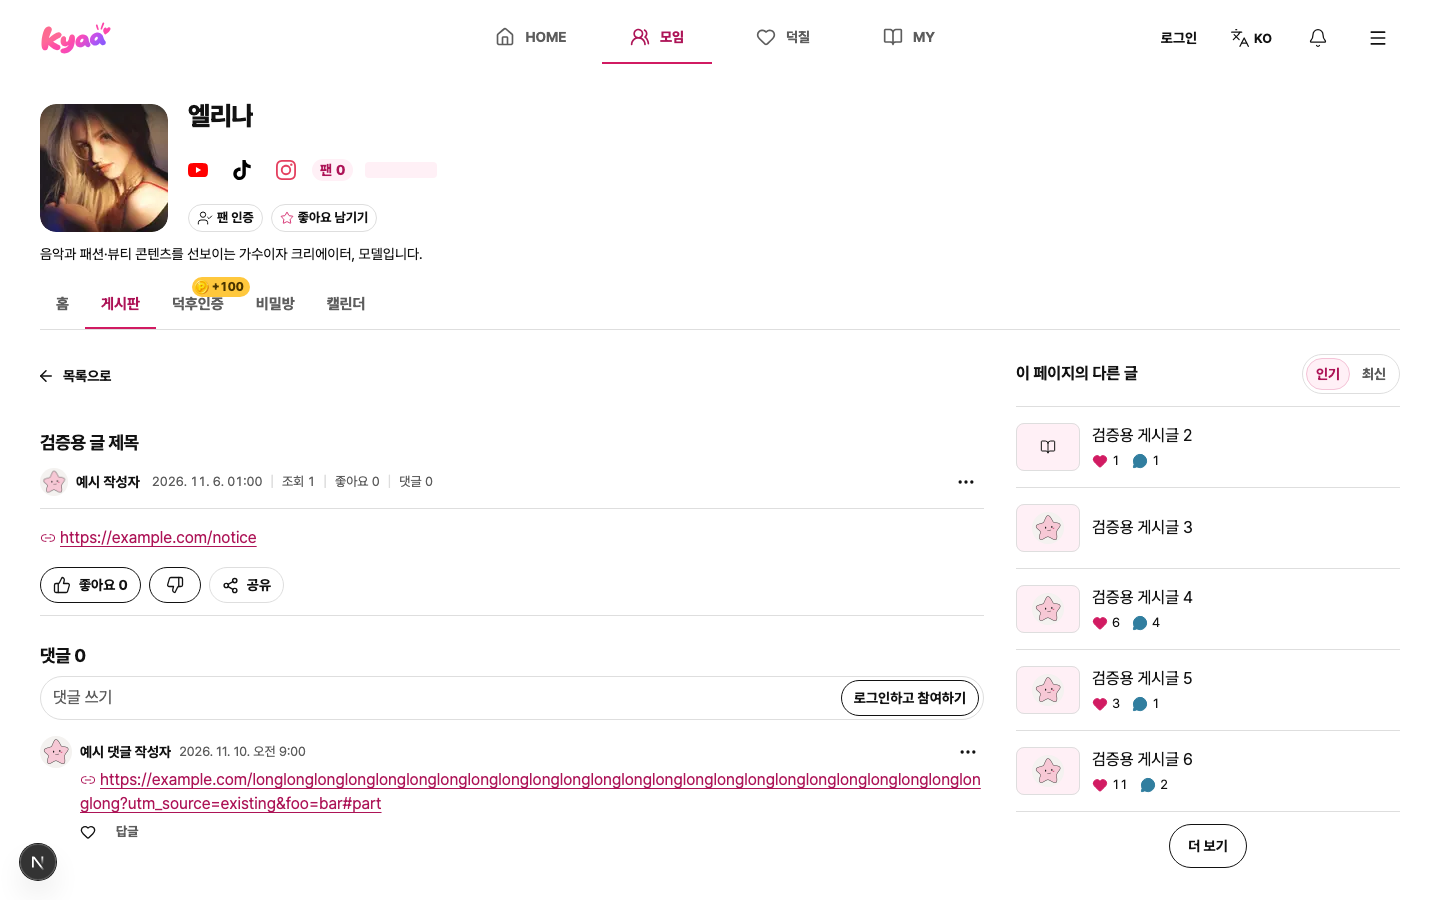
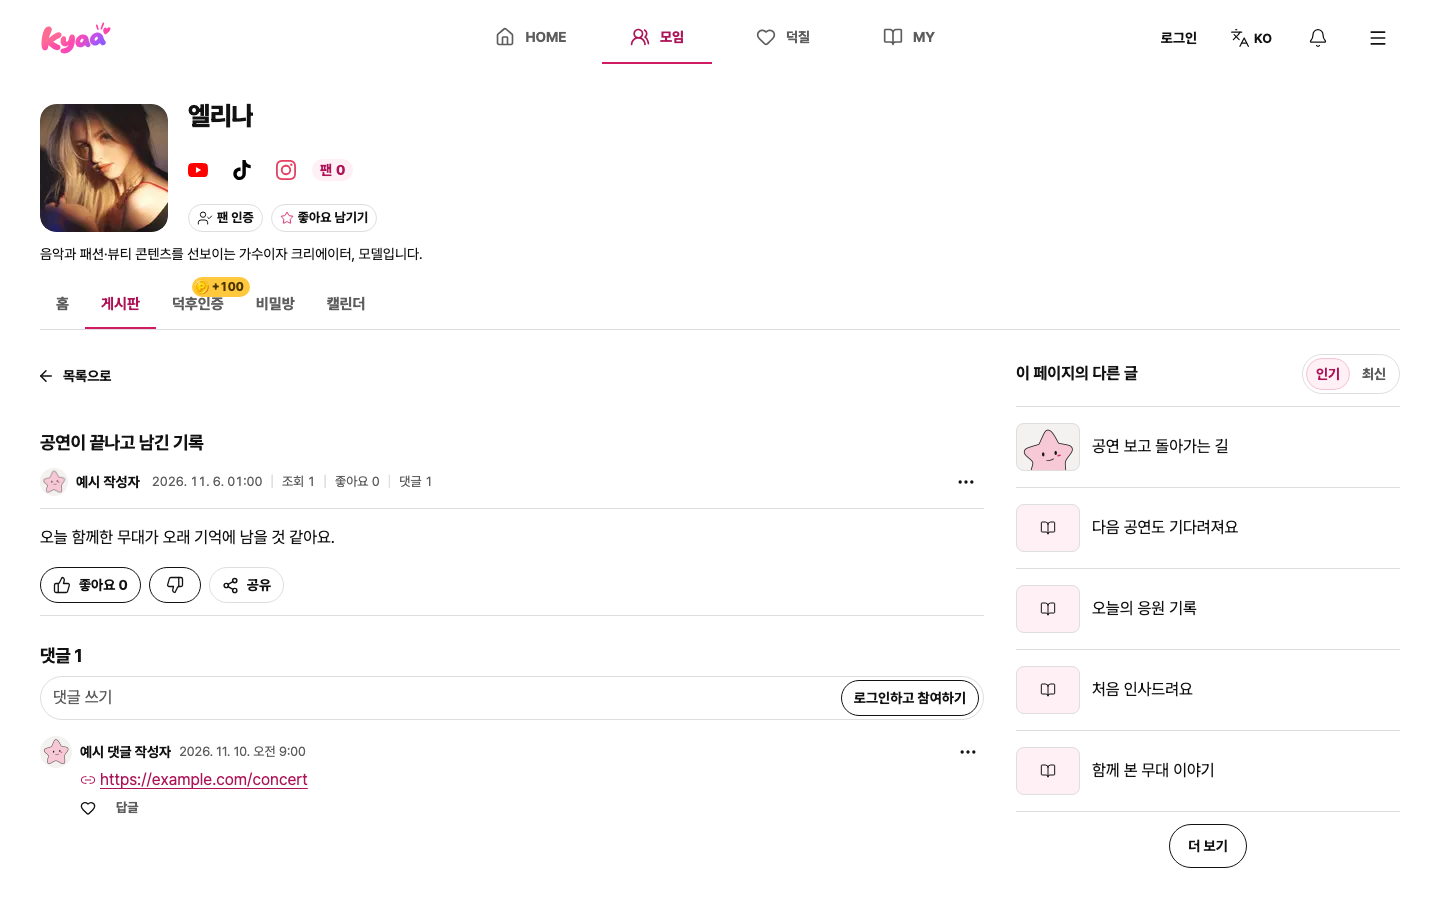
Keep post thumbnail fallback visible while images load

diff --git a/apps/web/features/fan-posts/ui/post-detail-more.tsx b/apps/web/features/fan-posts/ui/post-detail-more.tsx
@@ -50,19 +50,25 @@ export function moreTitle(item: Pick<Item, "body">) {
   const [title, article] = postSlotTexts(item.body);
   return (title || article || item.body).split("\n")[0].trim();
 }
-/** 공개 글의 첫 사진만 바로 읽는다. 사진을 쓸 수 없으면 프로필 사진과 글 아이콘 순으로 대체한다. */
+/** 공개 글의 첫 사진만 바로 읽는다. 사진이 표시될 때까지 공통 글 아이콘으로 대체한다. */
 const thumbnailOf = (item: Item) => item.visibility === "public" && item.assets?.[0] ? `/api/content-assets/${item.assets[0].id}?size=thumbnail` : null;
 
+function MoreThumbnail({ src }: { src: string | null }) {
+  const [loaded, setLoaded] = useState(false);
+  return <span className={styles.thumb}>
+    {loaded ? null : <FanIcon icon={BookOpen} size={16} />}
+    {src && <img src={src} alt="" width={64} height={48} loading="lazy" decoding="async"
+      onLoad={() => setLoaded(true)} onError={() => setLoaded(false)} data-loaded={loaded} />}
+  </span>;
+}
+
 function MoreRow({ item, slug, locale, tab }: { item: Item; slug: string; locale: AppLocale; tab: Tab }) {
-  const [broken, setBroken] = useState(false), thumbnail = thumbnailOf(item), copy = contentCopy(locale);
-  const [avatarBroken, setAvatarBroken] = useState(false);
+  const thumbnail = thumbnailOf(item);
+  const copy = contentCopy(locale);
   const returnTo = boardHref(slug, locale);
   const href = `/c/${slug}/community/${item.id}?locale=${locale}&returnTo=${encodeURIComponent(returnTo)}${tab === "latest" ? "&more=latest" : ""}`;
   return <li data-row=""><Link className={styles.row} href={href as Route} data-post-more-row="">
-    <span className={styles.thumb}>{thumbnail && !broken
-      ? <img src={thumbnail} alt="" width={64} height={48} loading="lazy" decoding="async" onError={() => setBroken(true)} />
-      : !avatarBroken && item.author.avatarUrl ? <img className={styles.avatar} data-artist-avatar={item.artist || undefined} src={item.author.avatarUrl} alt="" width={32} height={32} loading="lazy" decoding="async" onError={() => setAvatarBroken(true)} />
-      : <FanIcon icon={BookOpen} size={16} />}</span>
+    <MoreThumbnail key={thumbnail} src={thumbnail} />
     <span className={styles.text}>
       <FanText role="row-title" className={styles.title}>{moreTitle(item)}</FanText>
       {/* 0은 그리지 않는다. 둘 다 0이면 숫자 줄이 없다(게시판 목록의 댓글 수와 같은 규칙). */}

diff --git a/apps/web/features/fan-posts/ui/post-detail-more.test.tsx b/apps/web/features/fan-posts/ui/post-detail-more.test.tsx
@@ -82,15 +82,18 @@ it("offers a retry when the list cannot be read, and no banner on a brand page",
   expect(screen.queryByTestId("banner")).toBeNull();
 });
 
-it("shows a public post's first photo and the writer's picture otherwise, ringed for the page's artist", () => {
+it("shows a book icon until the public photo loads and for posts without a readable photo", () => {
   state.answer = () => ({ status: "ready", data: { items: [post("photo", { assets: [{ id: "bba239f6-6c6b-4a36-87bf-b325dfe5d4ca", width: 640, height: 480 }] }), post("members", { visibility: "members", artist: true, assets: [{ id: "bba239f6-6c6b-4a36-87bf-b325dfe5d4cb", width: 640, height: 480 }] })] } });
   const { container } = render(<PostDetailMore slug="elina" postId="current" locale="ko" />);
   const images = [...container.querySelectorAll("img")];
-  expect(images.map(image => image.getAttribute("src"))).toEqual(["/api/content-assets/bba239f6-6c6b-4a36-87bf-b325dfe5d4ca?size=thumbnail", "/images/avatars/star-pink.webp"]);
-  expect(images.map(image => image.hasAttribute("data-artist-avatar"))).toEqual([false, true]);
-  fireEvent.error(images[1]);
-  expect(images[1].isConnected).toBe(false);
-  expect(screen.getAllByRole("link")[1].querySelector(".lucide-book-open")).toBeTruthy();
+  expect(images.map(image => image.getAttribute("src"))).toEqual(["/api/content-assets/bba239f6-6c6b-4a36-87bf-b325dfe5d4ca?size=thumbnail"]);
+  const [photo, members] = screen.getAllByRole("link");
+  expect(members.querySelector(".lucide-book-open")).toBeTruthy();
+  expect(photo.querySelector(".lucide-book-open")).toBeTruthy();
+  fireEvent.load(images[0]);
+  expect(photo.querySelector(".lucide-book-open")).toBeNull();
+  fireEvent.error(images[0]);
+  expect(photo.querySelector(".lucide-book-open")).toBeTruthy();
 });
 
 it("uses the board post schema for ranking and cursor pages", () => {

diff --git a/apps/web/features/fan-posts/ui/post-detail-more.module.css b/apps/web/features/fan-posts/ui/post-detail-more.module.css
@@ -13,10 +13,10 @@
 .row:focus-visible { outline: 3px solid var(--color-focus); outline-offset: -3px; }
 @media (hover: hover) and (pointer: fine) { .row:hover { background: var(--color-accent-soft); } }
 .row:active { background: var(--color-accent-soft); }
-.thumb { display: flex; align-items: center; justify-content: center; width: var(--space-16); aspect-ratio: 4 / 3; overflow: hidden; border-radius: var(--radius-small); outline: 1px solid var(--color-line); outline-offset: -1px; background: var(--color-accent-soft); }
+.thumb { display: grid; place-items: center; width: var(--space-16); aspect-ratio: 4 / 3; overflow: hidden; border-radius: var(--radius-small); outline: 1px solid var(--color-line); outline-offset: -1px; background: var(--color-accent-soft); }
+.thumb > * { grid-area: 1 / 1; }
 .thumb > img { display: block; width: 100%; height: 100%; object-fit: cover; }
-/* 사진이 없는 글은 글쓴이 프로필 사진을 칸 가운데에 둥글게 둔다. */
-.thumb > img.avatar { flex: none; width: var(--space-8); height: var(--space-8); border-radius: 50%; }
+.thumb > img[data-loaded="false"] { visibility: hidden; }
 .text { display: flex; flex-direction: column; gap: var(--space-1); min-width: 0; }
 .title { overflow: hidden; display: -webkit-box; -webkit-box-orient: vertical; -webkit-line-clamp: 2; overflow-wrap: anywhere; }
 .meta { display: flex; align-items: center; gap: var(--space-3); font-variant-numeric: tabular-nums; }

diff --git a/DESIGN.md b/DESIGN.md
@@ -714,7 +714,7 @@ node apps/web/scripts/measure-r3.mjs --base http://127.0.0.1:3001 --out <dir> [-
 | R11 | 목록 행 | 이름과 값 사이 빈 간격이 행 폭의 40%를 넘지 않는다(≥1024) | R12 측정 |
 | R12 | 측정 | `BASE_URL=https://dev.kyaa.io node apps/web/scripts/measure-responsive.mjs --routes /,/rankings` — 390·1024·1440에서 가로 넘침(scrollWidth>clientWidth)·줄 길이 실패·행 간격·여백 차를 재고 JSON과 요약을 낸다. 공개 경로는 로그인 없이 돈다. 판정 함수는 `responsive-metrics.mjs`(단위 시험 `responsive-metrics.test.ts`) | 종료 코드 1 실패, 2 측정 오류 |
 
-- **글 상세(R9 ⑤, 2026-11-11 사용자 "게시판 좌우 여백이 어색함. 다른 글 추천이 뜨면 좋을 것 같다", 대표 "여백은 광고 배너 자리로도")**: ≥1024에서 본문 `--band-read`(720) + 레일 `--rail-md`/`--rail-wide`(360/384), 간격 `--col-gap`, 둘을 셸 안 가운데. 레일은 `PostDetailMore`(`features/fan-posts/ui/post-detail-more.tsx`): '이 페이지의 다른 글' 인기(주간)·최신(팬 글) 세그먼트, 지금 글을 뺀 5행(사진 64×48, 없거나 읽지 못하면 작성자 사진 또는 글 아이콘·제목 원문 2줄·채운 하트/댓글 `ReactionIcon` 수, 0은 그리지 않음), 행 수 높이 고정(모자라면 막대 없는 빈 줄, 막대는 불러오는 중에만), 아래에 기존 ‘더 보기’ 버튼으로 다음 다섯 글을 표시하고, 최신을 선택하면 주소에 기록해 글 이동·새로 고침 때 유지한다, 그 아래 `BannerSlot fanpage_second`(배너 없으면 자리 없음, 브랜드 페이지는 배너 없음). 레일은 사이트 헤더 아래(`--fan-header-height`+24)에 sticky, 배너가 있고 화면 높이 <960이면 고정하지 않음(배너가 잘리지 않게). <1024는 본문·댓글 아래 같은 레일. 레일 안 모든 조작은 44×44(세그먼트 칸은 보이는 32에 테두리 바깥까지 넓힌 누르는 영역).
+- **글 상세(R9 ⑤, 2026-11-11 사용자 "게시판 좌우 여백이 어색함. 다른 글 추천이 뜨면 좋을 것 같다", 대표 "여백은 광고 배너 자리로도")**: ≥1024에서 본문 `--band-read`(720) + 레일 `--rail-md`/`--rail-wide`(360/384), 간격 `--col-gap`, 둘을 셸 안 가운데. 레일은 `PostDetailMore`(`features/fan-posts/ui/post-detail-more.tsx`): '이 페이지의 다른 글' 인기(주간)·최신(팬 글) 세그먼트, 지금 글을 뺀 5행(사진 64×48, 사진이 없거나 로딩 중이거나 실패하면 같은 칸에 공통 글 아이콘·제목 원문 2줄·채운 하트/댓글 `ReactionIcon` 수, 0은 그리지 않음), 행 수 높이 고정(모자라면 막대 없는 빈 줄, 막대는 불러오는 중에만), 아래에 기존 ‘더 보기’ 버튼으로 다음 다섯 글을 표시하고, 최신을 선택하면 주소에 기록해 글 이동·새로 고침 때 유지한다, 그 아래 `BannerSlot fanpage_second`(배너 없으면 자리 없음, 브랜드 페이지는 배너 없음). 레일은 사이트 헤더 아래(`--fan-header-height`+24)에 sticky, 배너가 있고 화면 높이 <960이면 고정하지 않음(배너가 잘리지 않게). <1024는 본문·댓글 아래 같은 레일. 레일 안 모든 조작은 44×44(세그먼트 칸은 보이는 32에 테두리 바깥까지 넓힌 누르는 영역).
 
 #### 현재 코드와 충돌하는 곳 (2026-11-10 조사, 이번 작업에서 고치지 않음)
 - **레일 폭 밖의 값**: `components/fan-participation-guide/fan-participation-guide.module.css:53`(580) · `components/us-fanmeetings/us-fanmeetings-page.module.css:446`(400) · `features/benefit/ui/creator-raffles-screen.module.css:9`(350) · `components/admin/group-admin.module.css:60`(320) · `features/group-capsule/capsule.module.css:45,49`(304·320) · `features/group-raffle/raffle.module.css:1`(304) · `features/groups/ui/group-activity-frame.module.css:1`(304) · `features/groups/ui/groups.module.css:147`(312) · `features/community/ui/community.module.css:25,48`(280·260) · `components/notice/notice-detail.module.css:28`(264) · `features/group-wallet/ui/wallet.module.css:33,37`(248·264). 288·360은 R4와 일치(`celebrity-fan-page.module.css:148,152`, `wave-programs.module.css:37`, `groups.module.css:101,114,202`, `wallet.module.css:43,47`).
